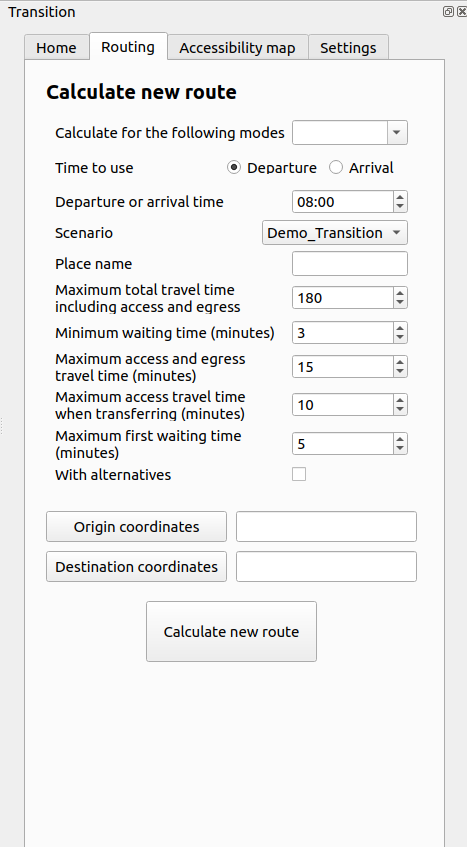
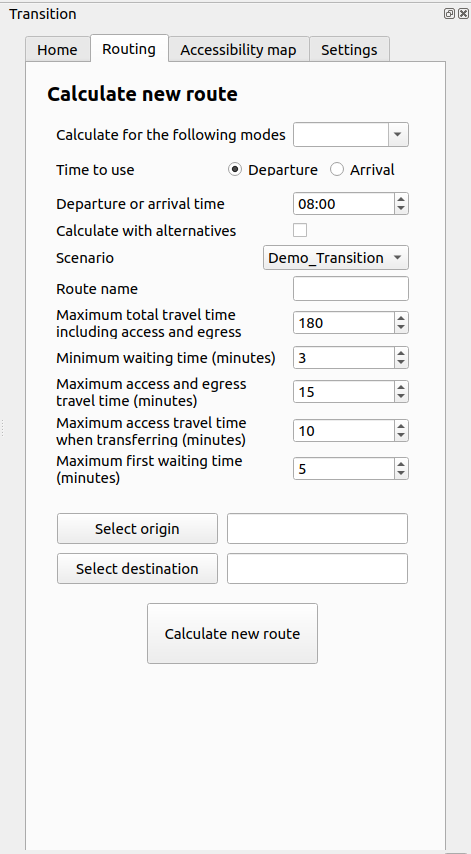
Documentation done

diff --git a/create_route.py b/create_route.py
@@ -95,8 +95,8 @@ class CreateRouteDialog(QWidget):
         self.routeName = QLineEdit()
 
         # Add fields to form display
-        for label, field in zip([self.modeLabel, self.departureOrArrivalLabel,self.departureOrArrivalTimeLabel,self.routeNameLabel, self.maxParcoursTimeLabel, self.minWaitTimeLabel, self.maxAccessTimeOrigDestLabel, self.maxTransferWaitTimeLabel, self.maxWaitTimeFisrstStopLabel, self.scenarioLabel, self.withAlternativeLabel], 
-                                [self.modeChoice, self.radioButtonsWidget, self.departureOrArrivalTime, self.routeName, self.maxParcoursTimeChoice, self.minWaitTimeChoice, self.maxAccessTimeOrigDestChoice, self.maxTransferWaitTimeChoice, self.maxWaitTimeFisrstStopChoice, self.scenarioChoice, self.withAlternativeChoice]):
+        for label, field in zip([self.modeLabel, self.departureOrArrivalLabel, self.departureOrArrivalTimeLabel, self.withAlternativeLabel, self.scenarioLabel, self.routeNameLabel, self.maxParcoursTimeLabel, self.minWaitTimeLabel, self.maxAccessTimeOrigDestLabel, self.maxTransferWaitTimeLabel, self.maxWaitTimeFisrstStopLabel], 
+                                [self.modeChoice, self.radioButtonsWidget, self.departureOrArrivalTime, self.withAlternativeChoice, self.scenarioChoice, self.routeName, self.maxParcoursTimeChoice, self.minWaitTimeChoice, self.maxAccessTimeOrigDestChoice, self.maxTransferWaitTimeChoice, self.maxWaitTimeFisrstStopChoice]):
             label.setWordWrap(True)
             row_layout = QHBoxLayout()
             row_layout.addWidget(label, stretch=4)  # 66% of the space

diff --git a/README.md b/README.md
@@ -1,6 +1,6 @@
 # Transition QGIS
-Transition es a QGIS plugin allowing to interact with the transit planning application Transition.\
-Before using this plugin, users need to install the Transition python library that this plugin depends on. To install it, use the following command :
+Transition is a QGIS plugin designed to interact with the transit planning application Transition.\
+Before using this plugin, users need to install the Transition python library that this plugin depends on in order to interact with the application. To install it, use the following command :
 ```bash
 pip install transition-lib
 ```
@@ -11,7 +11,7 @@ When the plugin is open for the first time, users are prompt to enter their logi
 
 ![alt text](docs/screenshots/login_prompt.png)
 
-The prompt also asks users for the URL of the server which, by default, is `http://localhost:8080` but can be edited by users. The authentication gets a token from the Transition application and will be saved if the user choses to maintain a connexion. When the token expires, the user will be prompted to login again for a new one.
+The prompt also asks users for the server URL that is to be used. By default, it is set to `http://localhost:8080` but can be edited by users. The login gets an authentication token from the Transition application. When the token expires, the user will be prompted to login again to get a new one.
 
 After a successful login, users have access to the plugin, which is a dockwidget.\
 The dockwidget contains multiple tabs which are described in the following.
@@ -21,8 +21,8 @@ The dockwidget contains multiple tabs which are described in the following.
 ![alt text](docs/screenshots/home_page.png)
 
 The home page offers the following functionalities :
-- Get the paths loaded in the Transition application.
-- Get the nodes loaded in the Transition application.
+- Get all the paths currently loaded in the Transition application.
+- Get all the nodes currently loaded in the Transition application.
 The results for each request will be displayed as a layer in QGIS.
 
 
@@ -30,13 +30,14 @@ The results for each request will be displayed as a layer in QGIS.
 ![alt text](docs/screenshots/routing_page.png)
 
 The routing page allows users to send a calculation request to the Transition application in order to receive a route. Users can choose transit modes, origin and destination points, as well as different parameters for transit, such as departure and waiting time.\
-The result will bu displayed as a group layer containing a separate layer for the result of each mode. For transit, the alternative routes will be displayed in a sub-group containing all alternative routes. 
+The result will be displayed as a group layer containing a separate layer for each mode. 
+For transit, if the **Calculate with alternatives** option is checked, multiple alternatives can be returned. When that is the case, the alternative routes will be displayed in a sub-group.
 
 ### Accessibility map page
-![alt text](docs/screenshots/map_page.png)
+![alt text](docs/screenshots/accessibility_map_page.png)
 
-The accessibility page allows users to send a calculation request to the Transition application in order to receive an accessibility map. Users can choose the origin point as well as different parameters such as the departure and waiting time.\
-If **Separate polygons into different layers** is checked, the result will be a group layer containing a separate layer for each polygon. Otherwise, the result will just be one layer containing all the polygons.
+The accessibility map page allows users to send a calculation request to the Transition application in order to receive an accessibility map. Users can choose the origin point as well as different parameters such as the departure and waiting time.\
+If the **Separate polygons into different layers** option is checked, the result will be a group layer containing a separate layer for each polygon. Otherwise, the result will just be one layer containing all the polygons.
 
 ## Contribute
 
